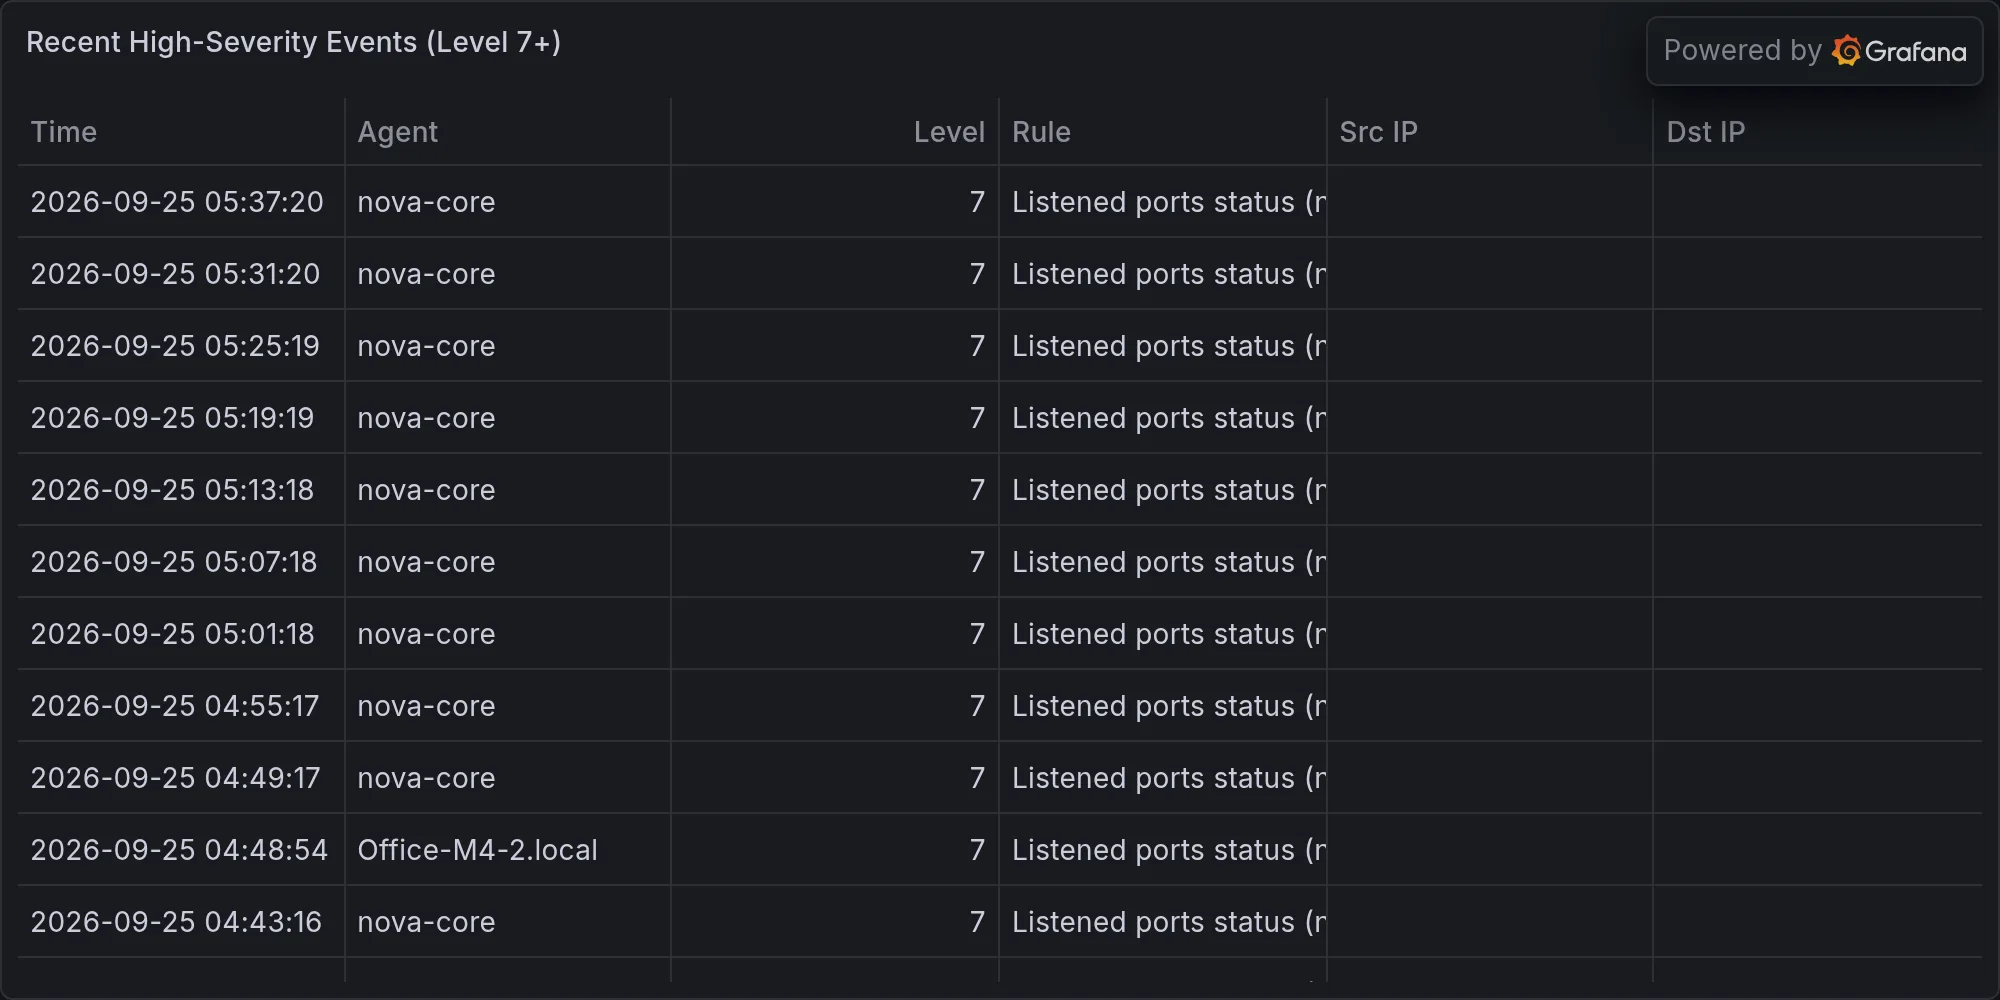
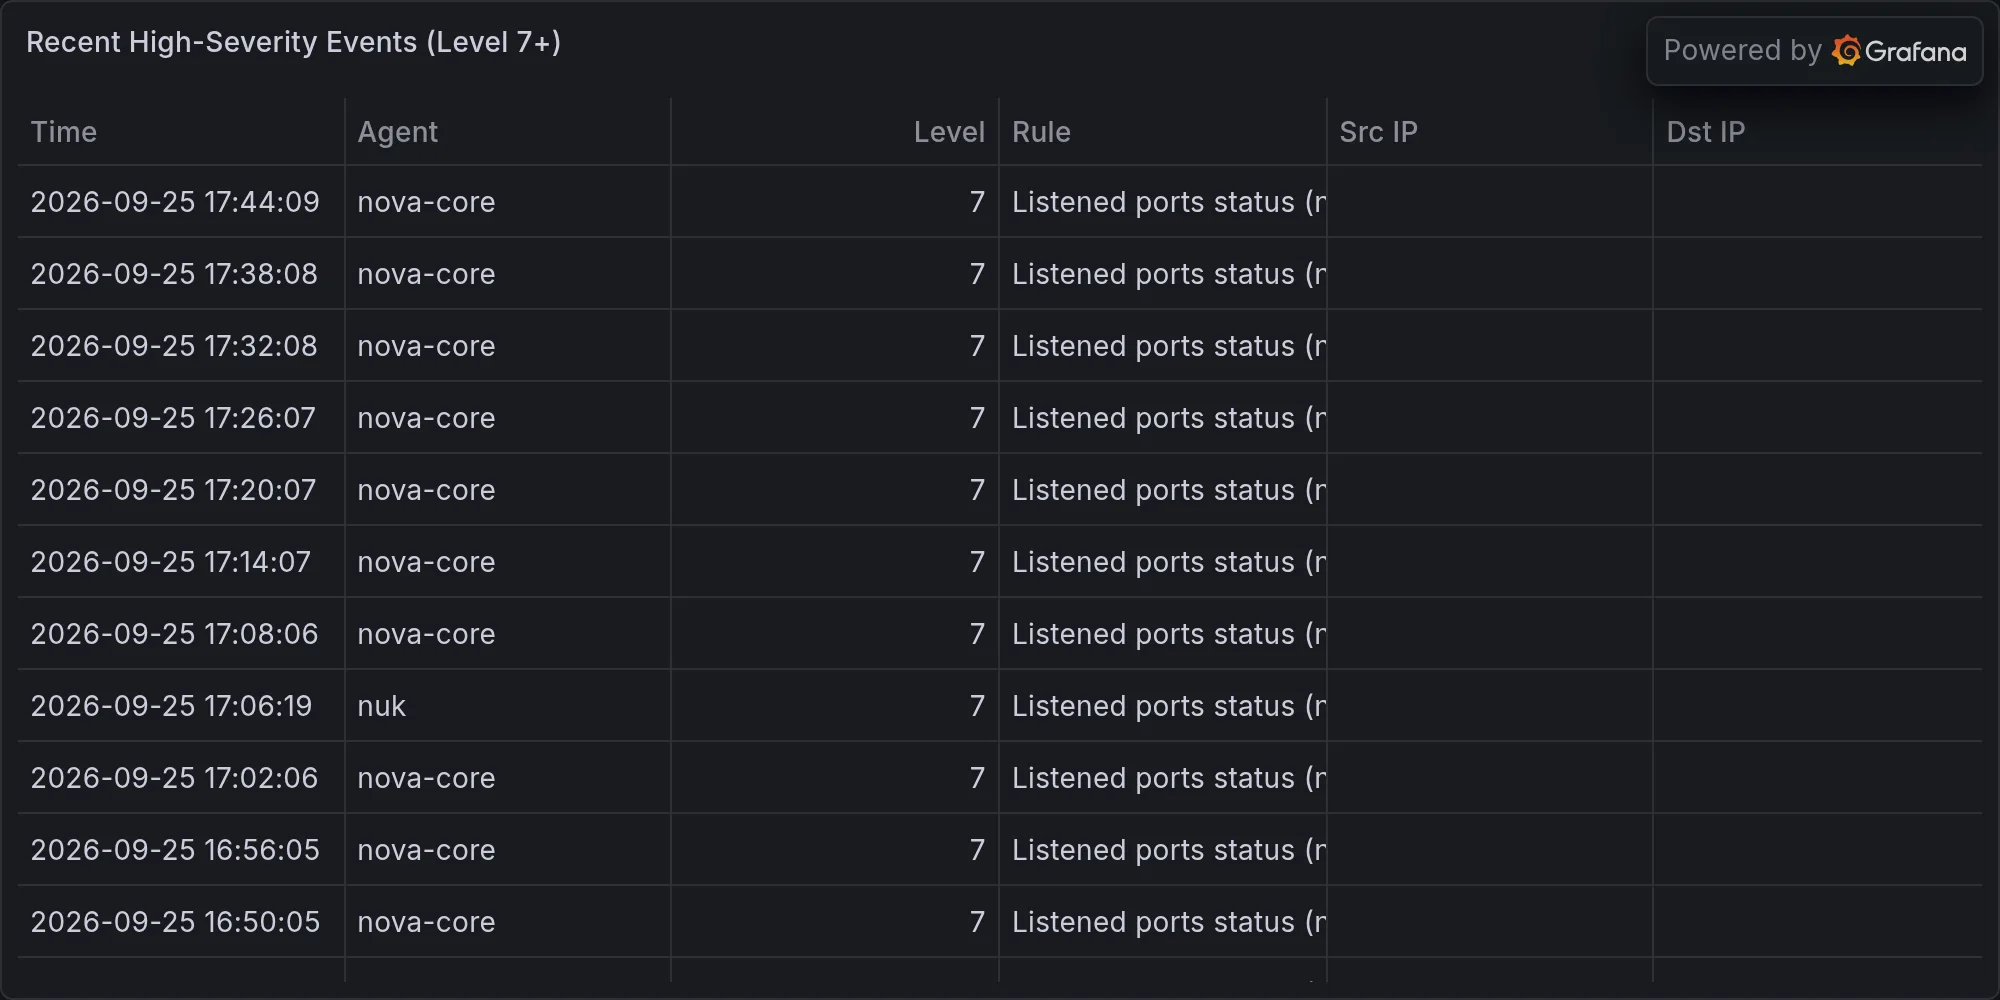
security: 2026-09-25 — BREAKING: ShinyHunters Actively Exploiting Oracle

diff --git a/content/operations/2026-09-25-breaking-shinyhunters-actively-exploiting-oracle-peoplesoft-.md b/content/operations/2026-09-25-breaking-shinyhunters-actively-exploiting-oracle-peoplesoft-.md
@@ -1,0 +1,46 @@
+---
+title: "🛡 BREAKING: ShinyHunters Actively Exploiting Oracle PeopleSoft via URL Encoding Bypass"
+date: 2026-09-25T17:45:27-07:00
+draft: false
+categories: ["operations"]
+tags: ["breaking-alert", "google-threat-intelligence-shinyhunters-", "security"]
+description: "BREAKING: Google Threat Intelligence: ShinyHunters Renewed Mass Exploitation Campaign Targeting Oracle PeopleS"
+cover:
+  image: "/images/operations/2026-09-25-breaking-shinyhunters-actively-exploiting-oracle-peoplesoft-.webp"
+  alt: "BREAKING: ShinyHunters Actively Exploiting Oracle PeopleSoft via URL Encoding Bypass"
+  relative: false
+---
+
+*Published Friday, September 25, 2026 at 05:45 PM PT*
+
+![BREAKING: ShinyHunters Actively Exploiting Oracle PeopleSoft via URL Encoding Bypass](/images/operations/2026-09-25-breaking-shinyhunters-actively-exploiting-oracle-peoplesoft-.webp)
+
+**BLUF:** ShinyHunters threat group is conducting a mass exploitation campaign against Oracle PeopleSoft installations using a URL encoding bypass technique that circumvents WAF and reverse proxy protections. Organizations running unpatched PeopleSoft deployments are at active risk; threat actor is reaching protected endpoints and extracting data at scale.
+
+**DETAILS:**
+- **Attack vector:** ShinyHunters encodes forward slashes as `%2F` in URLs (e.g., `%2FPSEMHUB%2F` instead of `/PSEMHUB/`), bypassing WAF and reverse proxy rules that match against literal path strings.
+- **Detection gap:** Most Web Application Firewalls and reverse proxies evaluate rules *before* URL decoding. The PeopleSoft application server decodes the request and routes it to the vulnerable servlet, allowing the payload to reach endpoints that should be blocked.
+- **Scale:** Campaign has successfully compromised 100+ organizations; one confirmed victim is the FBI (ShinyHunters publicly claimed breach following alleged PeopleSoft zero-day exploit).
+- **Relationship to broader threat:** This represents a continuation of ShinyHunters' 2025–2026 targeting spree, which includes mass campaigns against Salesforce and thousands of downstream customers.
+- **Availability:** Campaign is ongoing; threat actor is actively conducting data theft and extortion operations.
+
+**IMPACT:**
+- Any organization running unpatched Oracle PeopleSoft (both on-premise and cloud-hosted) with internet-facing WAF/reverse proxy protection is vulnerable to this specific bypass.
+- Confirmed victims span federal agencies and private enterprises; data exfiltration and extortion threats are active.
+- Risk extends to downstream customers if PeopleSoft instances handle shared data or multi-tenant configurations.
+
+**RECOMMENDED ACTIONS:**
+1. **Immediate:** Audit PeopleSoft WAF rules for URL-encoded bypass patterns (`%2F`, `%252F`, Unicode variants). Add decoding step *before* rule evaluation.
+2. **Patch:** Apply latest Oracle PeopleSoft security updates; confirm no known zero-days remain in your version.
+3. **Detection:** Monitor access logs for encoded path segments targeting `/PSEMHUB/` or related servlets; alert on unusual authentication attempts to protected endpoints.
+4. **Containment:** If breach is suspected, assume data exfiltration and contact incident response immediately.
+
+**SOURCES:**
+- Google Threat Intelligence (ShinyHunters Renewed Mass Exploitation Campaign Targeting Oracle PeopleSoft)
+- The Register Security, BleepingComputer, Help Net Security, Security Affairs (corroborating reporting on 100+ compromises, FBI breach claim, zero-day exploitation)
+
+---
+
+**Recent high-severity events at publish time:**
+
+![Recent high-severity events](/images/operations/2026-09-25-breaking-alert-posture.webp)
